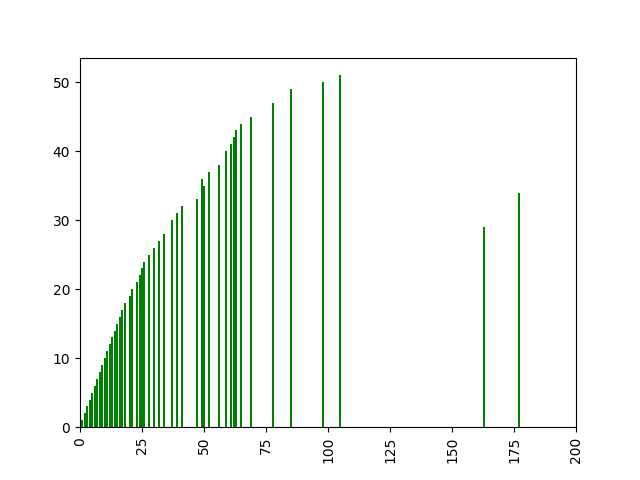
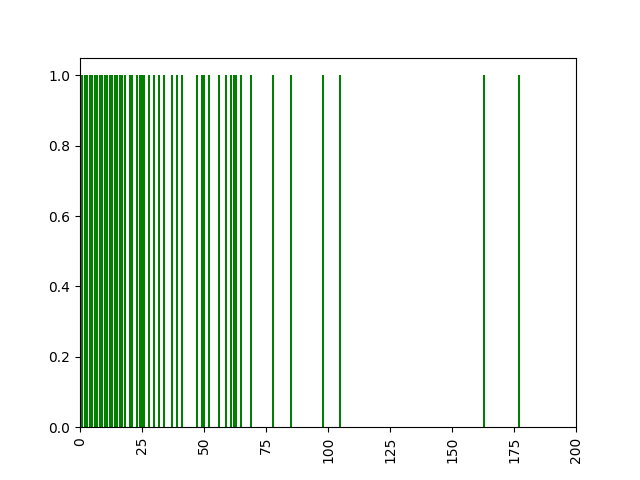
initial draft of Data Analysis report

Changed region(s): [[0.0625, 0.1562, 0.4062, 0.875], [0.0625, 0.875, 0.125, 0.9062]]

diff --git a/dataAnalysis/analysis.py b/dataAnalysis/analysis.py
@@ -56,6 +56,8 @@ def keyAnalysis():
                     v ={s_line[3]: valCol }
                     keyDict.update(v)
   print(keyDict)
+  size = len(keyDict)
+  print(size)
   data = {'KeyEvent':keyDict.keys(), 'Count' : keyDict.values()}
   df1 = pd.DataFrame(data, columns=['KeyEvent','Count'])
   df1 = df1.sort_values(by=['Count'], ascending=False)
@@ -109,7 +111,8 @@ def timeAnalysis():
         
           #add time difference to a set to remove duplicates then add to a dictionary using indices as keys
           timeSet.add(roundTime)
-          timeGenDict = {k: v for v, k in enumerate(timeSet)}
+          #timeGenDict = {k: v for v, k in enumerate(timeSet)}
+          timeGenDict = {i : 1 for i in timeSet }
 
           # add time difference to a dictionary, if dictionary already contains the key, update value
           if (roundTime in timeDict):
@@ -152,8 +155,8 @@ def eventEvolv():
       sort_line = line.split(',')
 
 #countEvents()
-#keyAnalysis()
-timeAnalysis()
+keyAnalysis()
+#timeAnalysis()
       
 
 
